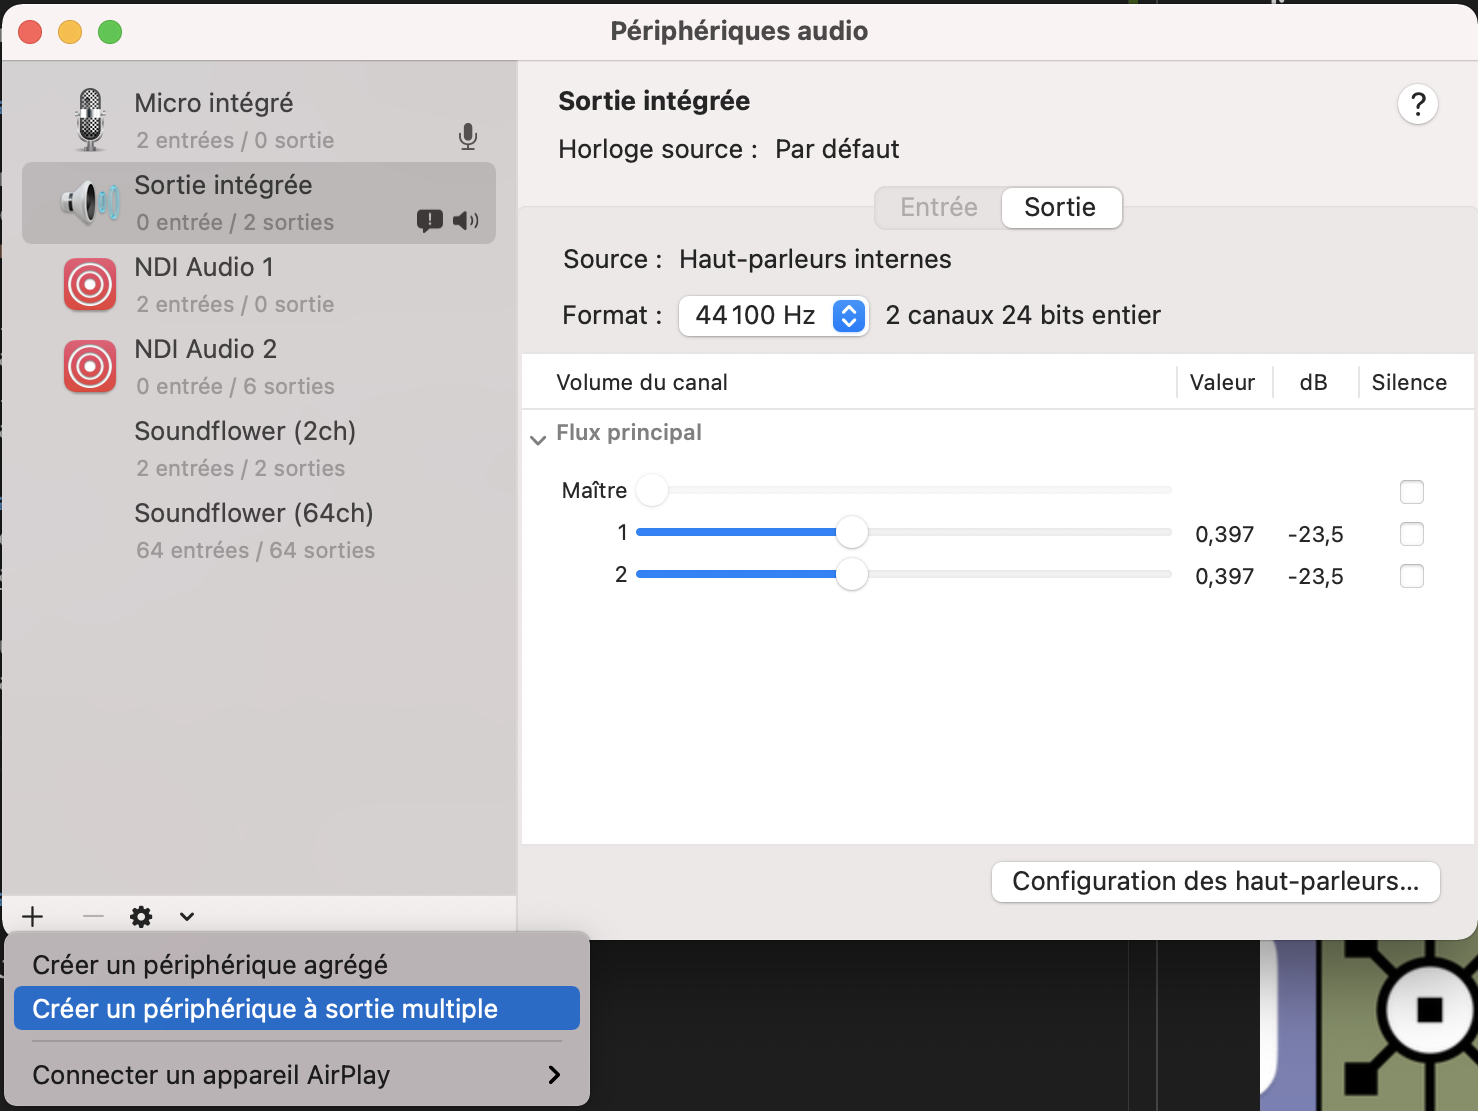
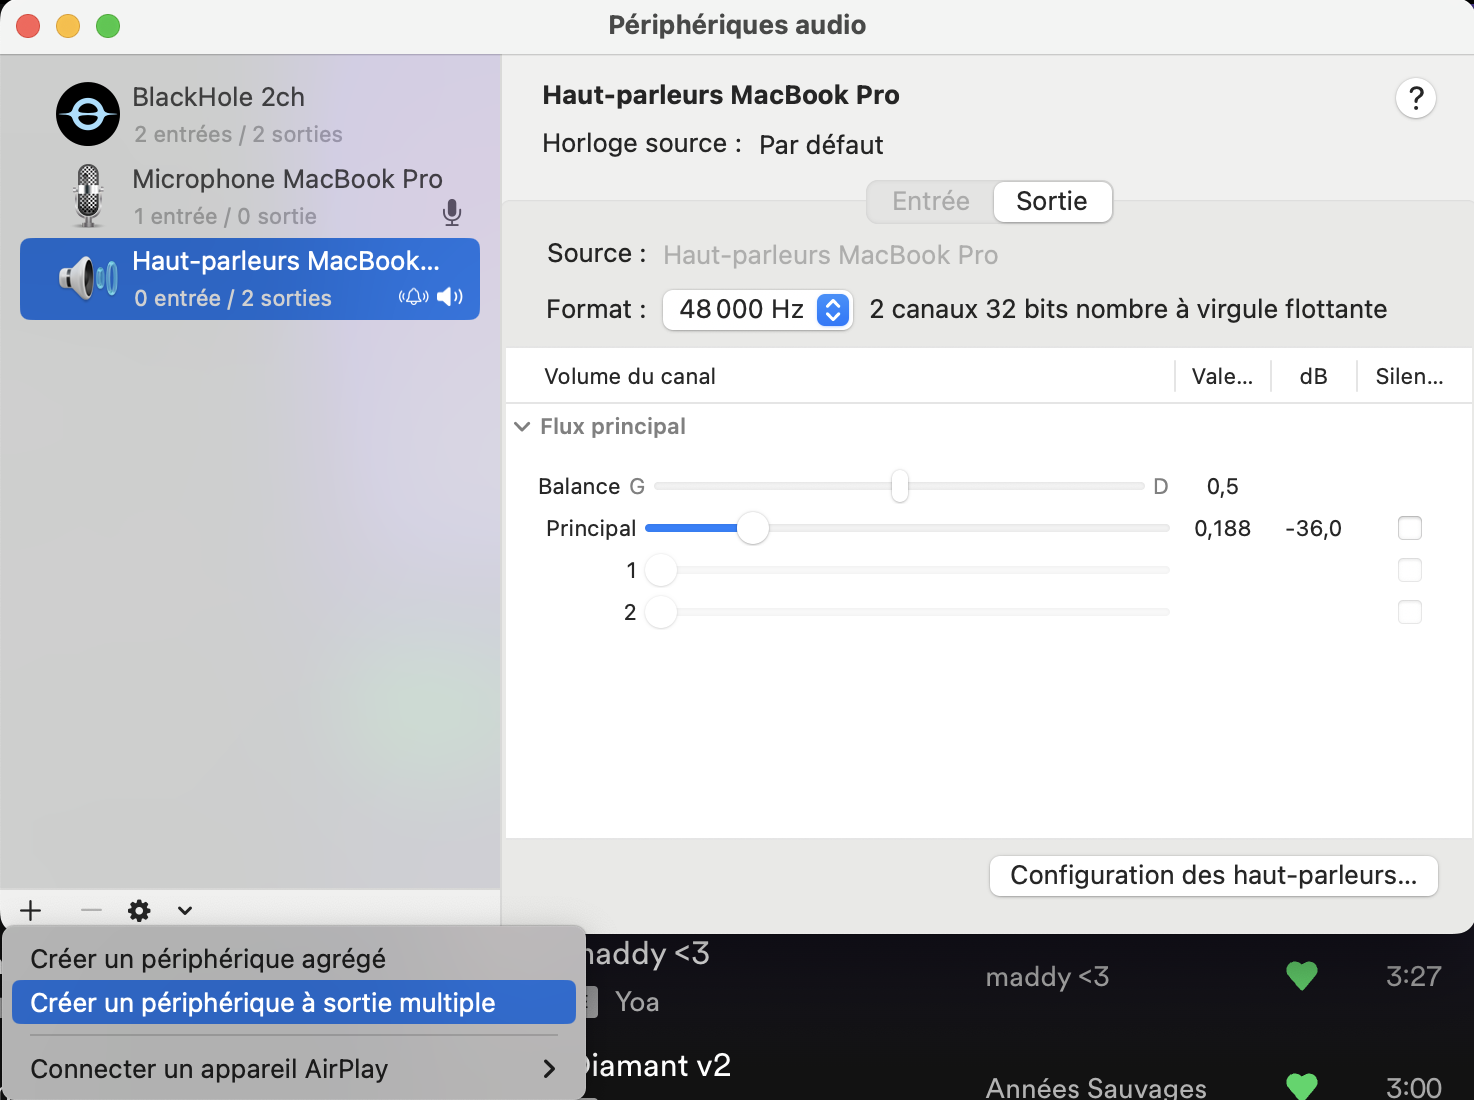
update

diff --git a/README.md b/README.md
@@ -1,4 +1,4 @@
-# TD_audioreact_love_EN
+# Touchdesigner Audioreact love (EN)
 
 **On how to generative audio-reactive visuals with TouchDesigner.**
 
@@ -11,7 +11,7 @@ We can open a sound file with an `Audio File In` CHOP, or listen to the sound fr
 If we want to listen to music from Youtube or Spotify or whatever, we need to install another software that will allow us to create a virtual audio cable in the computer, so the sound can go in TouchDesigner instead of out of the speakers.
 
 ### Virtual audio cable audio in mac OS
-I personally use [SoundFlower](https://soundflower.fr.softonic.com/mac) with Mac.
+I personally use [BlackHole](https://existential.audio/blackhole/) with Mac.
 
 Open the application `Audio and MIDI configuration` in the Application > Utilitaires folder.
 
@@ -21,11 +21,11 @@ In the app, click on `Create a multiple output`.
 
 ![screen de Config audio et MIDI](./images/screen2.png)
 
-Check "Soundflower (2ch)".
+Check "BlackHole (2ch)".
 
 ![screen de Config audio et MIDI](./images/screen3.png)
 
-In TouchDesigner, create an `Audio Device In` CHOP and select "Soundflower(2ch)" as Device.
+In TouchDesigner, create an `Audio Device In` CHOP and select "BlackHole (2ch)" as Device.
 
 ![screen de Config audio et MIDI](./images/screen4.png)
 
@@ -33,16 +33,18 @@ Create an `Audio Device Out` CHOP in output, and select "Built-In Output" as Dev
 
 ![screen de Config audio et MIDI](./images/screen5.png)
 
-The sound from the computer goes in SoundFlower, then in TouchDesigner from SoundFlower, and then in the sound output (speakers or headphones) : sound > SoundFlower > TouchDesigner > sound output.
+The sound from the computer goes in BlackHole, then in TouchDesigner from BlackHole, and then in the sound output (speakers or headphones) : sound > BlackHole > TouchDesigner > sound output.
 
 The best way is to put the sound at the maximum on the source (Spotify, etc) and lower it after in the `Audio Device Out` CHOP.
 
-We could also check "Built In Output" in the multiple output in the Audio and MIDI config app, so the sound output in SoundFlower and in the sound output froom the computer so it would go : sound > SoundFlower > TouchDesigner + sound > sound output.
+We could also check "Built In Output" in the multiple output in the Audio and MIDI config app, so the sound output in BlackHole and in the sound output from the computer so it would go : sound > BlackHole > TouchDesigner + sound > sound output.
 But as TouchDesigner sometimes looses FPS, I want the music to stay synchro with my visual even when it slows down.
+
+![schema](./images/schemaEN.png)
 
  ### Virtual audio cable in windows
 
-Not sure.
+Same way but with [Virtual Audio Cable](https://vb-audio.com/Cable/), Elekktronaut did a tutorial video rencently : ["Internal Audio to TouchDesigner"](https://www.elekktronaut.com/tutorials/internal-audio-to-touchdesigner).
 
  ## Sound to visual
 
